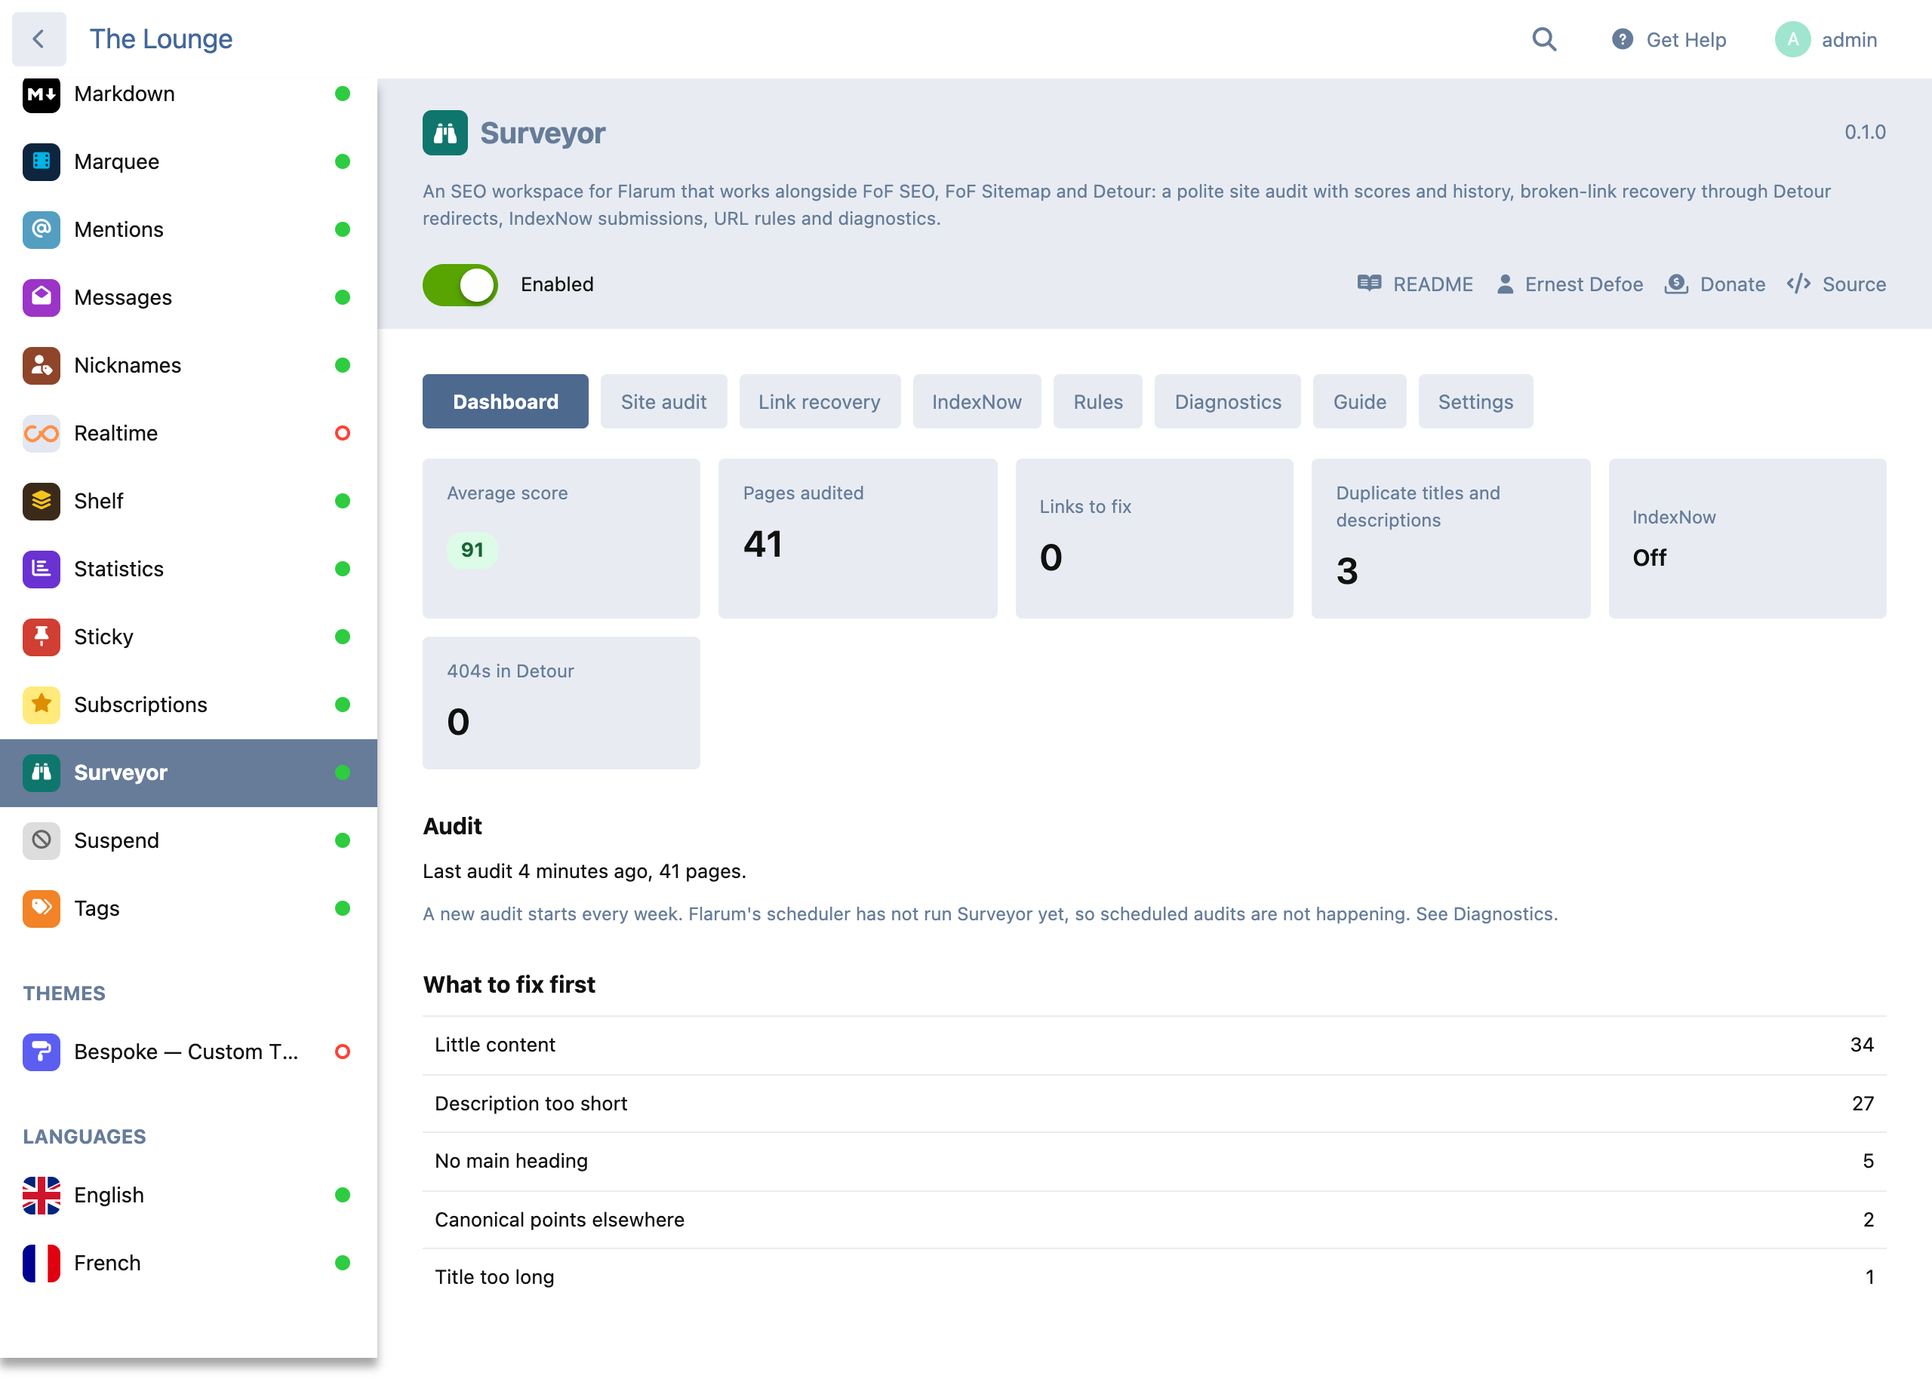
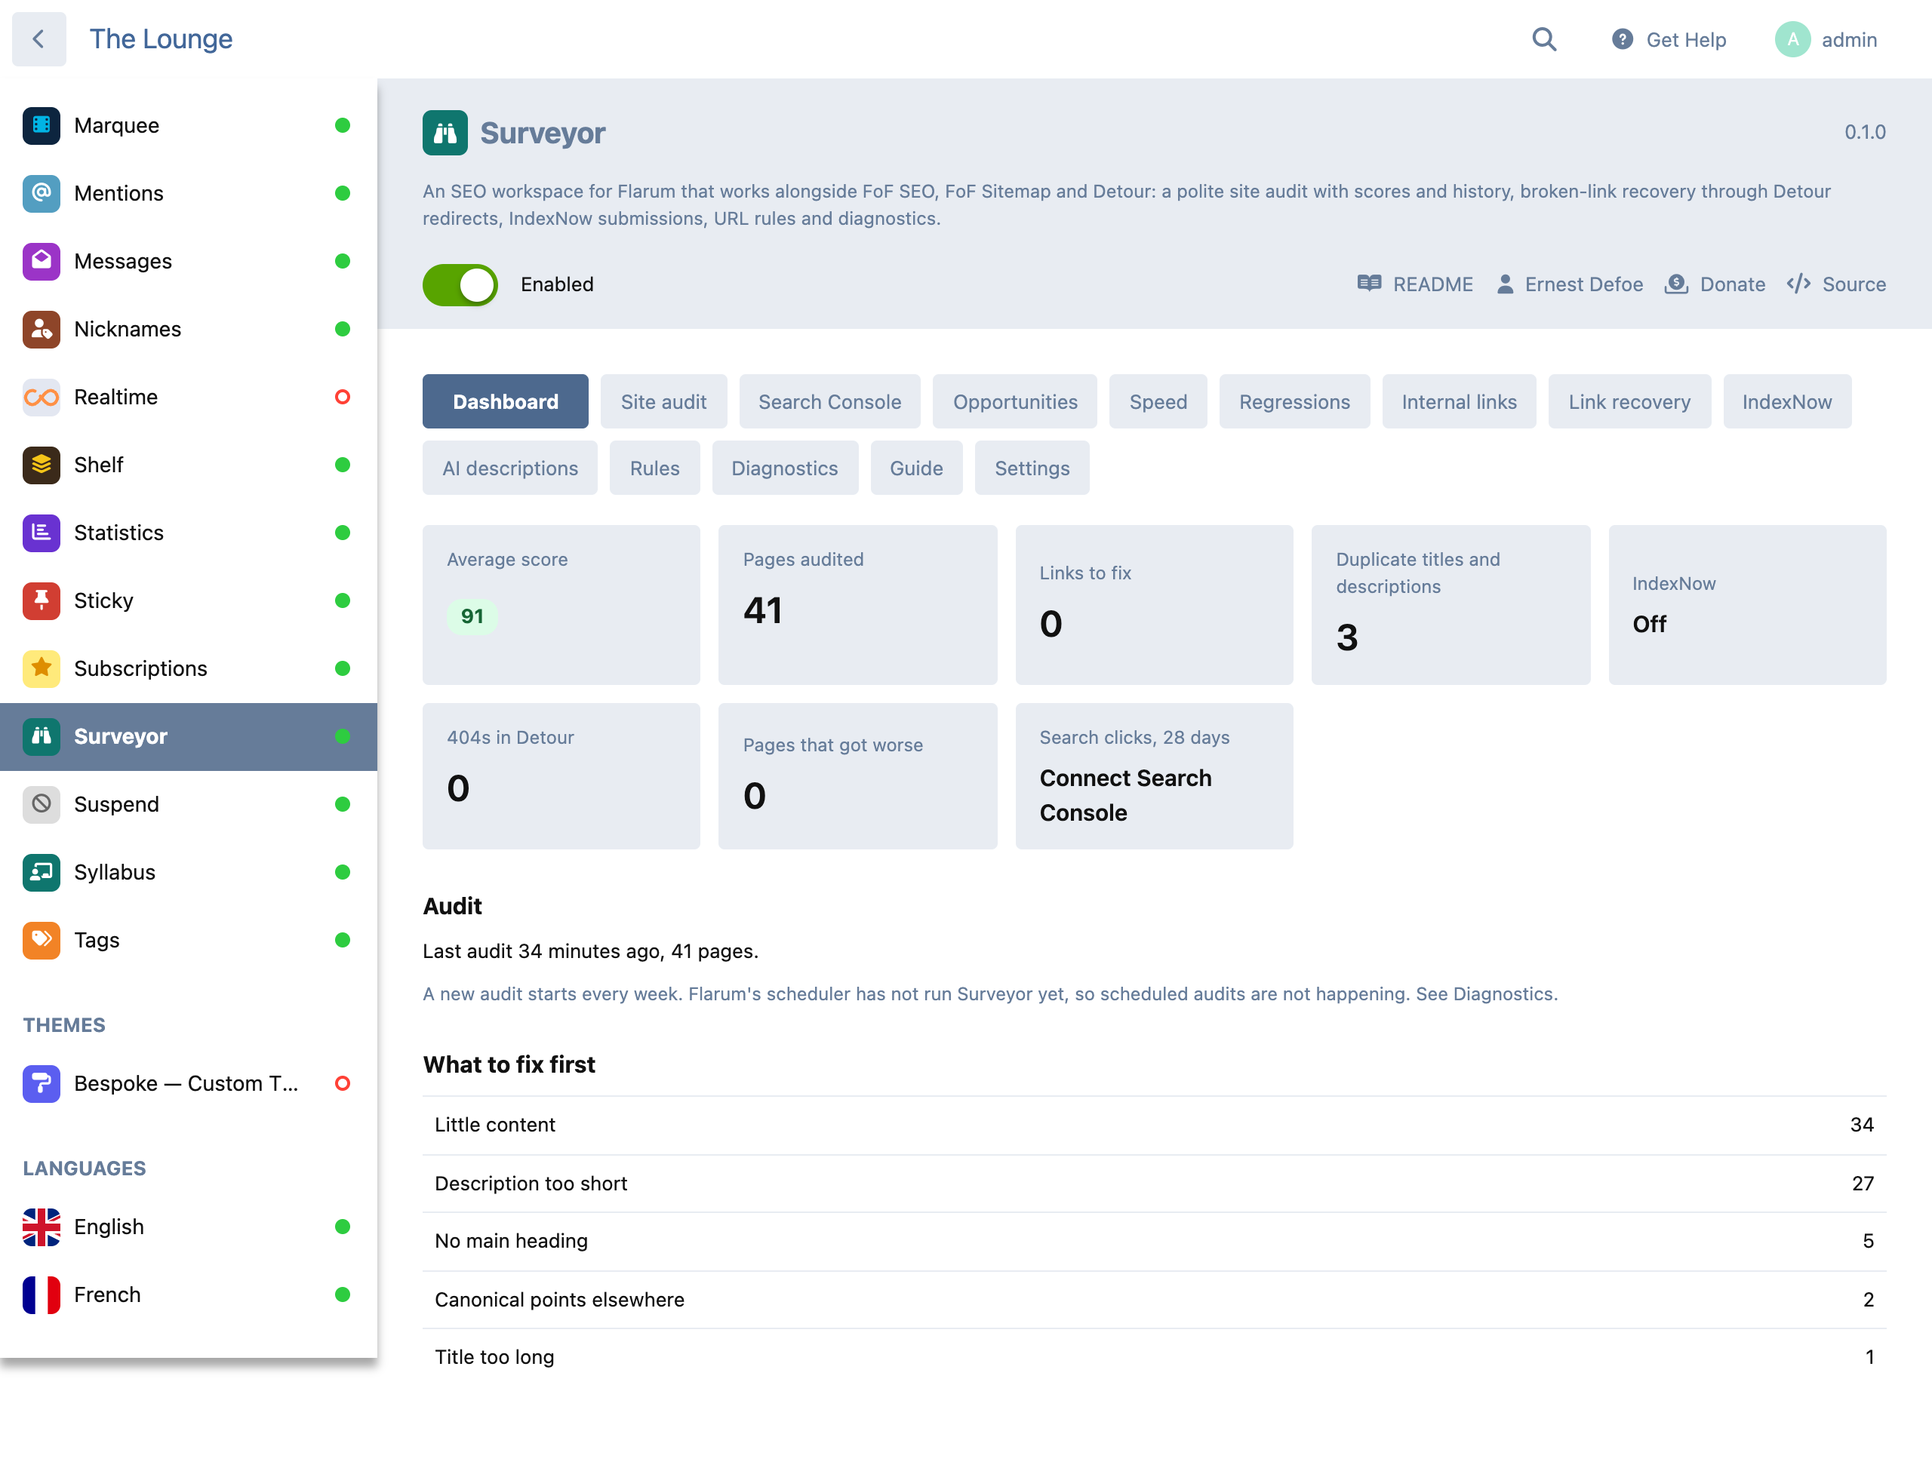
docs: README, Guide and SCOPE for Search Console (with a service account walkthrough), opportunities, speed, regressions, internal links and AI descriptions; new screenshots

diff --git a/README.md b/README.md
@@ -17,9 +17,17 @@ Surveyor checks, shows you what to fix first, and fixes it through those extensi
 - **IndexNow.** Tells Bing, Yandex, Seznam, Naver and other IndexNow search engines when a discussion is started, replied to, edited, renamed, hidden, restored or deleted. Batched every five minutes, each discussion at most once an hour, only discussions a guest can see. Send addresses by hand too. (Google does not use IndexNow.)
 - **Rules.** Leave parts of the forum out of the audit, IndexNow or both, or limit them to some parts. Exact addresses, wildcards (`/t/staff*`) or regular expressions, with a box to try an address.
 - **Diagnostics.** Live checks with an explanation for each: FoF SEO, FoF Sitemap and Detour enabled (and their versions); conflicting extensions; https; the server can reach its own forum; the home page's canonical; the sitemap answers, is valid and lists only your own addresses; robots.txt answers, does not block the forum and lists the sitemap; Flarum's scheduler runs; the IndexNow key file opens; Surveyor's tables exist.
-- **Guide.** A short built-in explanation of each section.
+- **Search Console.** Connect Google Search Console with a service account and see clicks, impressions, click-through rate and position for every page and the queries that find it, the last 28 days against the 28 before, with daily totals and weekly history kept in Surveyor's own tables. Inspect a page to see whether Google has indexed it, when it last crawled it, which canonical it chose and whether its rich results are valid. Submit FoF Sitemap's sitemap to Google.
+- **Opportunities.** Pages seen often but rarely clicked, pages at positions 8–20 close to page one, and pages losing clicks, each marked High, Medium or Low by the clicks it could win, with the queries behind it, the audit's view of the page and what to do.
+- **Speed.** PageSpeed Insights for a page on a phone and on a desktop: the Lighthouse score and timings, and Core Web Vitals from real Chrome visitors (LCP, INP, CLS) when Google has them. Measure by hand, or have your busiest pages measured every week. History is kept.
+- **Regressions.** One list of what got worse: pages that stopped working, audit scores down 10 points, search clicks down 30%, speed scores down 10 points or pages loading 25% slower, each against its last healthy measurement.
+- **Internal links.** Orphan pages nothing links to, pages with a single link in, your hubs, and related discussions worth linking (shared tags, #hashtags and title words). Optionally, a **related discussions** block under each discussion's first post (off by default).
+- **AI descriptions (optional, off by default).** An AI suggests a meta description for a discussion; you read it, edit it and save it into FoF SEO, or not. Hand-written descriptions are never replaced, and every change can be undone.
+- **Guide.** A short built-in explanation of each section, including how to get a Google key.
 
 ![Site audit](screenshots/site-audit.png)
+
+![Search Console](screenshots/search-console.png)
 
 ## How the score works
 
@@ -41,6 +49,31 @@ Every page starts at 100 and loses points for each problem:
 | Slower than 1.5 seconds | 5 |
 
 Only pages that answer 200 with HTML are scored. Duplicates are shown separately and do not change a page's score.
+
+## Opportunities, in numbers
+
+From the last 28 days in search:
+
+| Kind | When | Potential (extra clicks a month) |
+| --- | --- | --- |
+| Seen but not clicked | 100+ impressions and a click-through rate under half of what is usual at that position | impressions × (usual rate − actual rate) |
+| Almost on page one | average position 8–20 and 50+ impressions | what position 5 would bring, less today's clicks |
+| Losing clicks | 10+ clicks before, down 30% or more | the clicks lost |
+
+High from 50, Medium from 10, else Low. The usual rates are a typical organic curve: 28% at position 1, 15% at 2, 10% at 3, 5% at 5, about 2% at 10.
+
+## Getting a Google service account key
+
+Surveyor reads Search Console as a service account: a Google identity for a program, with a key file instead of a password.
+
+1. In the [Google Cloud console](https://console.cloud.google.com/), create a project (or pick one).
+2. Under **APIs and services**, enable the **Google Search Console API** (and the **PageSpeed Insights API** if you want speed measurements on your own allowance).
+3. Under **IAM and admin → Service accounts**, create a service account. It needs no roles in the project.
+4. Open it, **Keys → Add key → Create new key → JSON**. A `.json` file downloads: that is the key. Keep it private.
+5. In [Search Console](https://search.google.com/search-console), open your property, **Settings → Users and permissions → Add user**, and add the service account's email (it ends in `.iam.gserviceaccount.com`). **Restricted** is enough to read; choose **Full** if Surveyor should submit your sitemap.
+6. In Surveyor's **Search Console** section, paste the whole file and the property name — `sc-domain:example.com` for a domain property, or `https://example.com/` for a URL-prefix property — and press **Save and connect**.
+
+If your Google organisation blocks service account keys (the policy `iam.disableServiceAccountKeyCreation`), an administrator can allow them for this one project.
 
 ## Requirements
 
@@ -75,7 +108,26 @@ php flarum cache:clear
 - **Nothing on your pages.** Surveyor adds no JavaScript, CSS or data to the forum, and not one database query to a page view or an API request. (Its tests measure the discussion list and `/api/discussions`, as a guest and as an admin, with 1 and with 20 discussions, Surveyor on and off: the same queries every time.) The admin page loads its workspace only when you open it.
 - **Gentle crawling.** By default 20 pages a minute (one every three seconds), at most 500 pages per audit, a 10 second limit per page, 2 MB read per page at most. A big forum is covered over several audits: each one starts with pages never checked, then those checked longest ago.
 - **IndexNow costs one small database write** when a discussion changes, and nothing at all while IndexNow is off.
-- **History is pruned.** The last 12 audits are kept; pages that no longer appear anywhere are forgotten after three audits.
+- **History is pruned.** The last 12 audits are kept; pages that no longer appear anywhere are forgotten after three audits. Search history keeps 26 weeks per page and 16 months of daily totals; speed keeps the newest 20 measurements per page and device.
+- **The related-discussions block is off by default.** Off, the forum loads nothing of Surveyor's. On, it loads one small script and stylesheet, and each discussion page costs one extra query at most once every six hours (the list is cached); a cached page costs exactly what it would with the block off. Both are measured in the tests.
+
+![Related discussions under the first post](screenshots/related-discussions.png)
+
+## Every outside call, and its limits
+
+Nothing below happens until you set it up, and every call has a timeout, a cap and a pause after failures (429: an hour or Google's `Retry-After`; 401/403: six hours; errors: 15 minutes).
+
+| Service | When | Caps |
+| --- | --- | --- |
+| Your own forum (the audit) | Scheduled and "Audit now" | 20 pages a minute, 500 per audit, 10 s each (settings) |
+| IndexNow | Every 5 minutes, once on | 500 addresses per request, each discussion once an hour |
+| Google Search Console | Daily refresh (or weekly, or by hand) | At most 11 requests a refresh, 30 s each |
+| URL Inspection | Only when you press Inspect | 200 a day (setting, Google allows 2,000), 10 a minute |
+| Sitemap submission | Only when you press Submit | One request |
+| PageSpeed Insights | One a minute from the scheduler, when queued | 25 a day (setting), 70 s each |
+| Anthropic (AI descriptions) | Only when you press Suggest | 50 a day, 5 a minute, 500,000 tokens a month (settings), 200 tokens per answer, 6,000 characters of the first post |
+
+With Claude Haiku 5.5 a description costs roughly $0.0001; the monthly budget above is about a dollar at most.
 
 ## Safe by design
 
@@ -86,6 +138,9 @@ php flarum cache:clear
 - **Admins only.** Every Surveyor endpoint refuses everyone else.
 - **Redirects go through Detour's own checks**, so Surveyor can never make one Detour would refuse (another host, the home page, a loop).
 - **Regular expressions can't hang the forum.** Up to 300 characters, nested repeats refused, and a hard backtracking limit on every match.
+- **Keys are encrypted at rest.** The Google service account, the PageSpeed key and the Anthropic key are stored with AES-256-GCM in Surveyor's own table, not in Flarum's settings (which are all sent to the admin page). The encryption key is a file in Flarum's `storage` folder (`storage/surveyor.key`, readable by its owner only), so a database dump alone reveals nothing. A key is never sent back to the browser: the admin sees only that one is set, and the service account's email. Back up `storage/surveyor.key` with the database, or paste the keys again after a move.
+- **A key file can only talk to Google.** A service account file naming any token address other than Google's own is refused, so a crafted file cannot send a signed request elsewhere.
+- **AI only sees public discussions.** Only the title and first post of a discussion a guest can see are sent, marked as material to describe and never as instructions, and nothing is saved until you press Save.
 
 ## Settings
 
@@ -96,6 +151,17 @@ php flarum cache:clear
 | Pages per minute | 20 | How fast an audit goes |
 | Wait for a page | 10 seconds | Longer than this, and the page is recorded as failed (2–20) |
 | Audits of history to keep | 12 | Older score history is removed |
+| Refresh Search Console data | Every day | Every day, every week, or only when you press Refresh |
+| URL inspections per day | 200 | Up to 2,000 (Google's limit) |
+| Measure speed automatically | Off | Weekly: the pages with the most search clicks (or most links) |
+| Pages measured each week | 10 | Each twice, phone and desktop |
+| Speed measurements per day | 25 | Keep low without a PageSpeed API key |
+| Show related discussions under the first post | Off | Adds the block (and its one cached query) |
+| Related discussions shown | 5 | Up to 10 |
+| AI descriptions | Off | Nothing is sent to an AI provider while off |
+| AI model | `claude-haiku-5-5` | Any Anthropic model id |
+| AI descriptions per day | 50 | |
+| AI tokens per month | 500,000 | Sent and received, together |
 
 IndexNow is switched on and off in its own section; turning it on makes a random key and serves it at `/<key>.txt`.
 
@@ -110,6 +176,18 @@ IndexNow is switched on and off in its own section; turning it on makes a random
 **Every link to a private discussion shows as "members only".** That is right: guests can't open them, so search engines can't either. They are not broken. Ignore them, or move the links.
 
 **IndexNow says 403.** The search engine could not open your key file. Fix that first (see above); Surveyor waits six hours after a 403, and an hour after a 429.
+
+**Search Console says 403, or "User does not have sufficient permission".** The service account's email has not been added to the property in Search Console (step 5 above), or the property name does not match exactly: a domain property is `sc-domain:example.com`, a URL-prefix property is the address with `https://` and the trailing slash.
+
+**Submitting the sitemap fails, but reading works.** Submitting needs **Full** permission for the service account; reading needs only Restricted.
+
+**PageSpeed measurements fail with 429.** Without an API key Google's shared allowance is small. Add a free key from the Google Cloud console (enable the PageSpeed Insights API first).
+
+**PageSpeed can't measure my test forum.** Google measures from the internet: a forum on `localhost` or behind a login can't be reached.
+
+**"Surveyor could not read or create its key file".** Flarum's `storage` folder must be writable by the web server, as it already must be for Flarum's cache.
+
+**The related block does not appear after switching it on.** Flarum rebuilds the forum's scripts on the next request; reload the page. It only shows discussions guests can see that share a tag with the one open.
 
 **Another IndexNow extension is enabled.** Diagnostics warns about it: both would send every change. Disable one.
 

diff --git a/SCOPE.md b/SCOPE.md
@@ -56,13 +56,19 @@ All three are hard `require`s, so Flarum's dependency check enforces them.
    is unreachable, so the page always answers inside PHP's 30 s limit.
 7. **Guide** — translatable plain-words help per section.
 
-## Phase 2 — Google Search Console (scope only)
+## Phase 2 — Google Search Console — built
 
-- Connect with a **service account** JSON key: stored encrypted with Flarum's encrypter, never
-  serialised to any frontend, only "connected as …@….iam.gserviceaccount.com" shown. JWT
-  (RS256) signed server-side with `openssl_sign`, exchanged at `oauth2.googleapis.com/token`,
-  token cached until expiry. Scopes: `webmasters.readonly`; `indexing` only if the Indexing API
-  is used (Google limits it to job postings / livestreams, so probably not).
+- Connect with a **service account** JSON key. Flarum 2 has no application key or encrypter, so
+  secrets (Google key, PageSpeed key, Anthropic key) are AES-256-GCM encrypted in a
+  `surveyor_secrets` table with a 32-byte key in `storage/surveyor.key` (0600, created on first
+  use) — never in `settings`, which Flarum sends to the admin page. Never returned to a browser;
+  only "connected as …@….iam.gserviceaccount.com". Key files whose `token_uri` is not
+  `https://oauth2.googleapis.com/token` are refused. JWT (RS256) signed server-side with
+  `openssl_sign`, exchanged for a token cached until two minutes before expiry, per scope.
+  Scopes: `webmasters.readonly` (analytics, URL Inspection); `webmasters` only for sitemap
+  submission. The Indexing API is not used (Google limits it to job postings and livestreams).
+- All outside HTTP goes through an injectable `Http\ApiClient` (tests use a fake; no test reaches
+  the network). Every call is logged (`surveyor_api_log`) and failures pause the service.
 - Search analytics per page and per query (clicks, impressions, CTR, position), daily rows
   stored with history; a scheduled pull with a per-day quota budget and cached failures.
 - URL Inspection for audited pages (indexed verdict, last crawl, canonical Google chose,
@@ -72,21 +78,30 @@ All three are hard `require`s, so Flarum's dependency check enforces them.
   previous 28 days); High/Medium/Low potential, each with a recommended action that links to
   the right place (FoF SEO's description field, the page, Detour).
 
-## Phase 3 — performance, regressions, internal links, AI (scope only)
+## Phase 3 — performance, regressions, internal links, AI — built
 
 - **PageSpeed Insights / Lighthouse / Core Web Vitals / CrUX** per page with history (Google API
   key; quota-aware queue; mobile + desktop; LCP, INP, CLS; failures cached).
 - **Regression guard**: compare each page's audit score, Search Console visibility and
   performance with its last healthy measurement and flag drops (with thresholds), on the
-  dashboard and optionally by email to admins.
+  dashboard and in its own section (no emails).
 - **Internal links analysis**: orphan pages (in the sitemap, no inbound links), pages with few
   inbound links, deep pages; an optional "related discussions" block for guests (off by default,
   cached, measured for zero added queries when off).
-- **Optional AI descriptions**: fof/seo already stores a per-object description in `seo_meta`
-  (`object_type` + `object_id`, `description`, with `auto_update_data`). Surveyor would write a
-  suggested description there (setting `auto_update_data = 0` so fof/seo keeps it), only after
-  the admin accepts it, never required, provider configurable. No competing field, so no fof/seo
-  PR is needed for storage; a PR would only be needed if fof/seo should expose a hook for it.
+- **Optional AI descriptions**: fof/seo stores a per-object description in `seo_meta`
+  (`object_type` + `object_id`, `description`, `auto_update_data`). `auto_update_data = 0` means
+  written by hand in FoF SEO: never replaced. Otherwise a previewed (and editable) suggestion is
+  written there with `auto_update_data = 0` (or fof/seo's next reply would overwrite it); the
+  previous value is kept for Undo, which restores it only if nobody has changed it since.
+  Provider interface; Anthropic Messages API first (`claude-haiku-5-5`, thinking off,
+  `max_tokens` 200, 160 characters, first post cut to 6 000 characters), over raw HTTPS through
+  the injectable client (no SDK dependency on every forum). Caps per day, per minute, tokens per
+  month; refusals and errors are reported, never saved. No fof/seo PR needed.
+- **Related discussions block**: `Extend\Conditional::whenSetting(related_enabled)` applies
+  `Links\RelatedBlock` (forum JS + CSS + a `surveyorRelated` attribute on the discussion *show*
+  endpoint only). Off: nothing loaded. On: one query (guest-visible discussions sharing a tag,
+  ranked in PHP by shared tags, #hashtags, title words) per discussion per six hours, cached.
+  Saving the setting marks the frontend assets dirty so Flarum rebuilds them.
 
 ## Not doing
 
